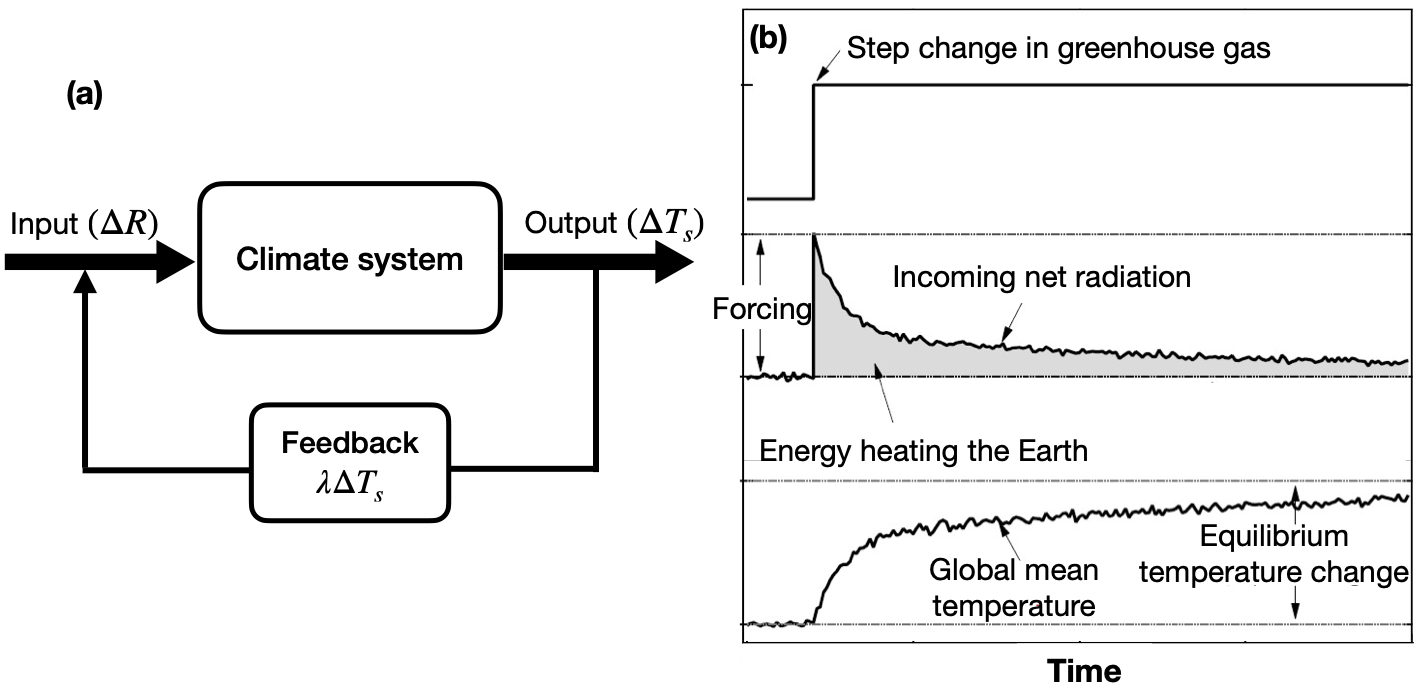
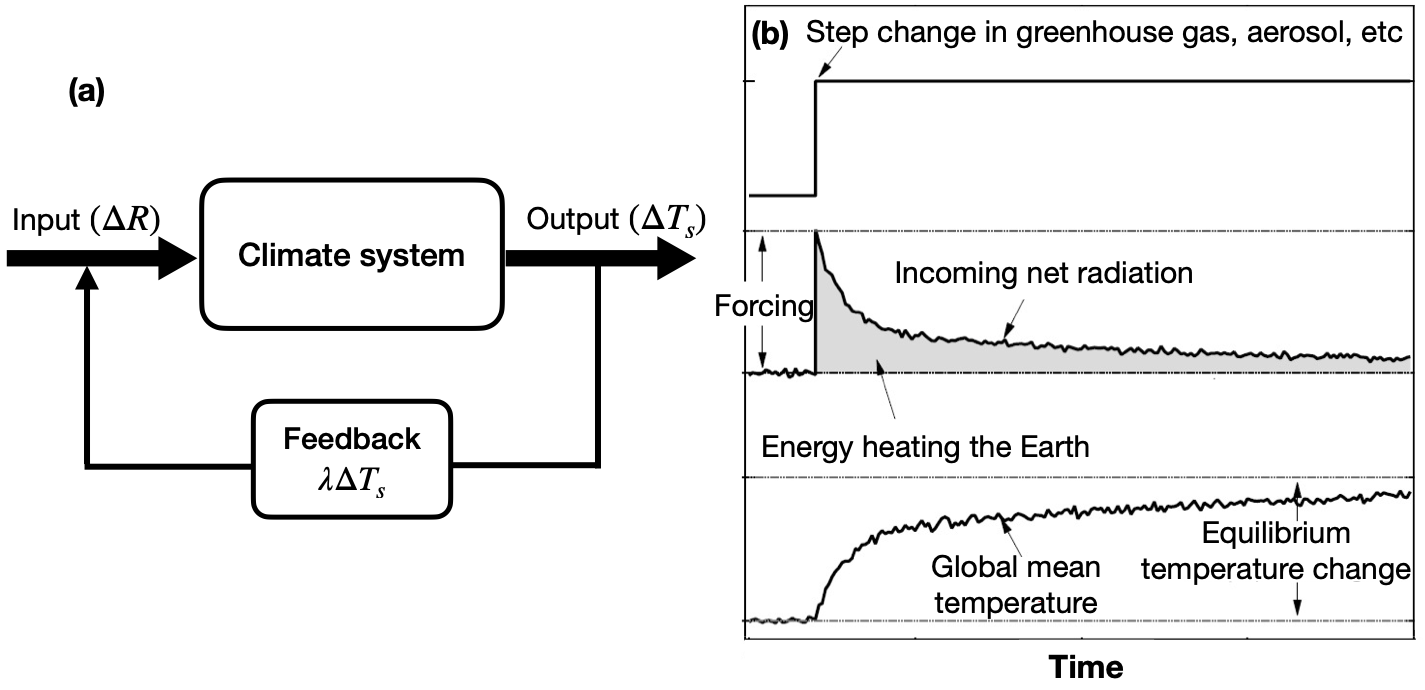
update feedback intro

diff --git a/chapter/introduction.tex b/chapter/introduction.tex
@@ -2,7 +2,8 @@
 \label{ch:introduction}
 
 \section{The Earth’s radiation budget}
-The Earth's climate is driven by the energy flow into and out of the system. The incoming solar radiation (yellow fluxes in \figref{fig:earth_energy_budget}) reaches the Earth at the top of the atmosphere (TOA), then goes through the atmosphere and arrives at the Earth surface. During this process, approximately two thirds of this shortwave (SW) radiation is absorbed by the Earth surface and atmosphere, and roughly one third of this energy is reflected back to space. The the surface and atmosphere are heated by this incoming solar radiation, and they also re-emit the longwave (LW) radiation (purple fluxes in \figref{fig:earth_energy_budget}) to keep a relatively stable temperature. Globally, the annual mean incoming solar radiation flux is about 340 Wm$^{-2}$, the reflected solar radiation flux is around 100 Wm$^{-2}$ and the outgoing longwave radiation (OLR) is close to 240 Wm$^{-2}$ at the TOA for period 2000--2010 \citep{Stephens2012update}. These three components balance with each other, with a small positive imbalance (about 0.6 Wm$^{-2}$) at the TOA. A more recent estimate from \cite{Wild2015} (see their Fig. 1) indicates that the gloabl mean OLR is about 239 Wm$^{-2}$, and the TOA energy imbalance is about 1 Wm$^{-2}$.
+\label{sec:earth_rad_budget}
+The Earth's climate is driven by the energy flow into and out of the system. The incoming solar radiation (yellow fluxes in \figref{fig:earth_energy_budget}) reaches the Earth at the top of the atmosphere (TOA)\index{TOA}, then goes through the atmosphere and arrives at the Earth surface. During this process, approximately two thirds of this shortwave (SW) radiation is absorbed by the Earth surface and atmosphere, and roughly one third of this energy is reflected back to space. The the surface and atmosphere are heated by this incoming solar radiation, and they also re-emit the longwave (LW) radiation (purple fluxes in \figref{fig:earth_energy_budget}) to keep a relatively stable temperature. Globally, the annual mean incoming solar radiation flux is about 340 Wm$^{-2}$, the reflected solar radiation flux is around 100 Wm$^{-2}$ and the outgoing longwave radiation (OLR) is close to 240 Wm$^{-2}$ at the TOA for period 2000--2010 \citep{Stephens2012update}. These three components balance with each other, with a small positive imbalance (about 0.6 Wm$^{-2}$) at the TOA. A more recent estimate from \cite{Wild2015} (see their Fig. 1) indicates that the gloabl mean OLR is about 239 Wm$^{-2}$, and the TOA energy imbalance is about 1 Wm$^{-2}$.
 %But due to the accuracy of the observation itself, it is hard to track the causes of these imbalance.
 
 \begin{figure}[ht]
@@ -20,12 +21,38 @@ As shown in \figref{fig:earth_energy_budget}, the energy budget at the Earth's s
 \begin{figure}[ht]
 	\centering
 	\includegraphics[width=0.95\linewidth]{{figs/literature_review/clim_system_feedback2}.png}
-	\caption{Schematic of feedback in climate system. In panel (a), $\Delta R$ is the input disturbance to the climate system, $\Delta T_s$ is the change of surface temperature and $\lambda$ denotes the climate feedback parameter. Panel (b) is modified from Fig. 1 of \cite{Murphy2009}.}
+	\caption{Schematic of feedback in climate system. In panel (a), $\Delta R$ is the input disturbance to the climate system, $\Delta T_s$ is the change of surface temperature and $\lambda$ denotes the climate feedback parameter. Modified from Fig. 2 of \cite{Stephens2005cloud}. Panel (b) is modified from Fig. 1 of \cite{Murphy2009}.}
 	\label{fig:schematic_climate_feedback}
 \end{figure}
 
+
 %What is feedback?
-The idea of feedback\index{feedback} is taken from the control system, which is used to understand the system response to different forcings \citep{Stephens2005cloud}. As shown in \figref{fig:schematic_climate_feedback}, $\Delta R$ is the input to climate system, which can be seen as the radiative forcing produced by changing the content of CO$_2$ or aerosol, or by other factors such as volcanic eruption. Then many features in the climate system (such as surface temperature, specific humidity) would change in response to this forcing. In general, we select the surface temperature ($T_s$) as a key output variable. The change in surface temperature (i.e. $\Delta T_s$) can in turn impact the radiative balance at the top of the atmosphere (TOA)\index{TOA}. That is to say the output response is fed back to the system. The feedback parameter ($\lambda$, units Wm$^{-2}$K$^{-1}$) is a measure of the strength of the feedback.
+As introduced in \secref{sec:earth_rad_budget}, the energy budget at the TOA is balanced by the incoming solar radiation and the OLR (the imbalance is usually small). In this energy balance model, any disturbance imposed to the system is regarded as the forcing ($\Delta F$), which can be aroused from the perturbation of greenhouse gas concentration (e.g., CO$_2$), aerosol, and change in solar cycle or volcanic eruption (\figref{fig:schematic_climate_feedback}). Then climate system will response to this radiative imbalance ($\Delta R$) at the TOA  by changing the surface temperature ($T_s$). As shown in \figref{fig:schematic_climate_feedback}a, the change in surface temperature (i.e. $\Delta T_s$) can in turn impact the radiative balance at the TOA by adjusting the OLR. That is to say the output response is fed back to the system. $\Delta R$ goes to zero during the process when climate system adjusts towards a new equilibrium (\figref{fig:schematic_climate_feedback}b). Using the idea of feedback\index{feedback}, which is taken from the control system and used to understand the system response to different forcings \citep{Stephens2005cloud},
+$\Delta R$ can be linked to the change of surface temperature ($\Delta T_s$) as follows:
+\begin{equation}
+    \Delta R = \Delta F + \lambda \Delta T_s,
+    \label{eq:imbalance_forcing_lambda}
+\end{equation}
+in which $\lambda$ is called the climate feedback parameter \citep{Gregory2004}. 
+At the equilibrium state (i.e., $\Delta R=0$), the total climate feedback is expressed as 
+\begin{equation}
+    \lambda = -\frac{\Delta F}{\Delta T_s}.
+\end{equation}
+Thus, $\lambda$ is in units of Wm$^{-2}$K$^{-1}$, and is a measure of the TOA radiative flux change per degree of surface air temperature change.
+
+In climate system, climate feedbacks are the processes that can either amplify or dampen the effects of climate forcings. A feedback that amplifies the initial perturbation is called a ``positive feedback", while a feedback that can reduce the initial perturbation is called ``negative feedback". In general, $\lambda$ can be decomposed into feedbacks from different physical processes, such as temperature (Planck and lapse rate), water vapor, surface albedo, clouds, etc. These climate feedback parameters can be evaluated as follows
+\begin{equation}
+    \lambda = \frac{\partial R}{\partial T_s} = \sum_x \frac{\partial R}{\partial x}\frac{\partial x}{\partial T_s} + Re, %\text{high-order terms},
+    %+ \sum_x\sum_y \frac{\partial^2 R}{\partial x\partial y}\frac{\partial x\partial y}{\partial^2 T_s}+\dots 
+    \label{eq:lambda}
+\end{equation}
+where $x$ represent the climate variable such as temperature, water vapor, surface albedo and cloud properties. $\frac{\partial R}{\partial x}$ can be treated as the feedback parameter due to climate variable $x$. The high-order residual term ($Re$) is usually neglected in the linear framework analysis.
+
+Equilibrium climate sensitivity (ECS) is the equilibrium (i.e., $\Delta R=0$) response of $T_s$ to the radiative forcing from a doubling of CO$_2$ ($F_{2\times CO_2}$):
+\begin{equation}
+    ECS = \frac{F_{2\times CO_2}}{\lambda}
+    \label{eq:ecs}
+\end{equation}
 
 
 \section{Clouds and cloud radiative effect}
